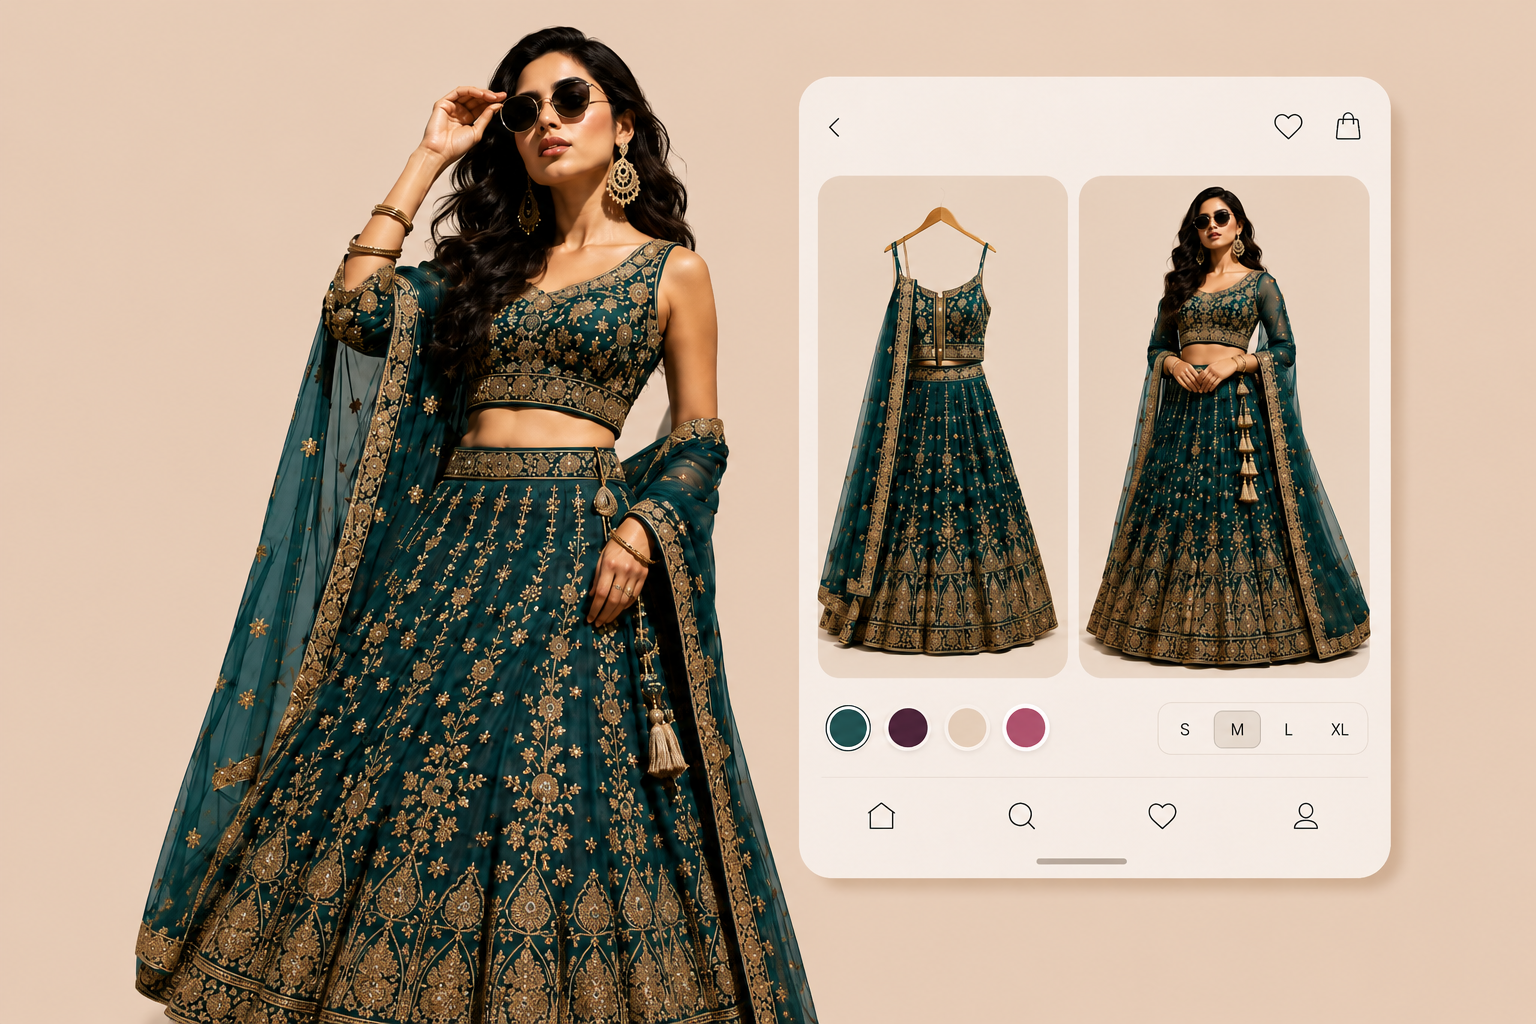
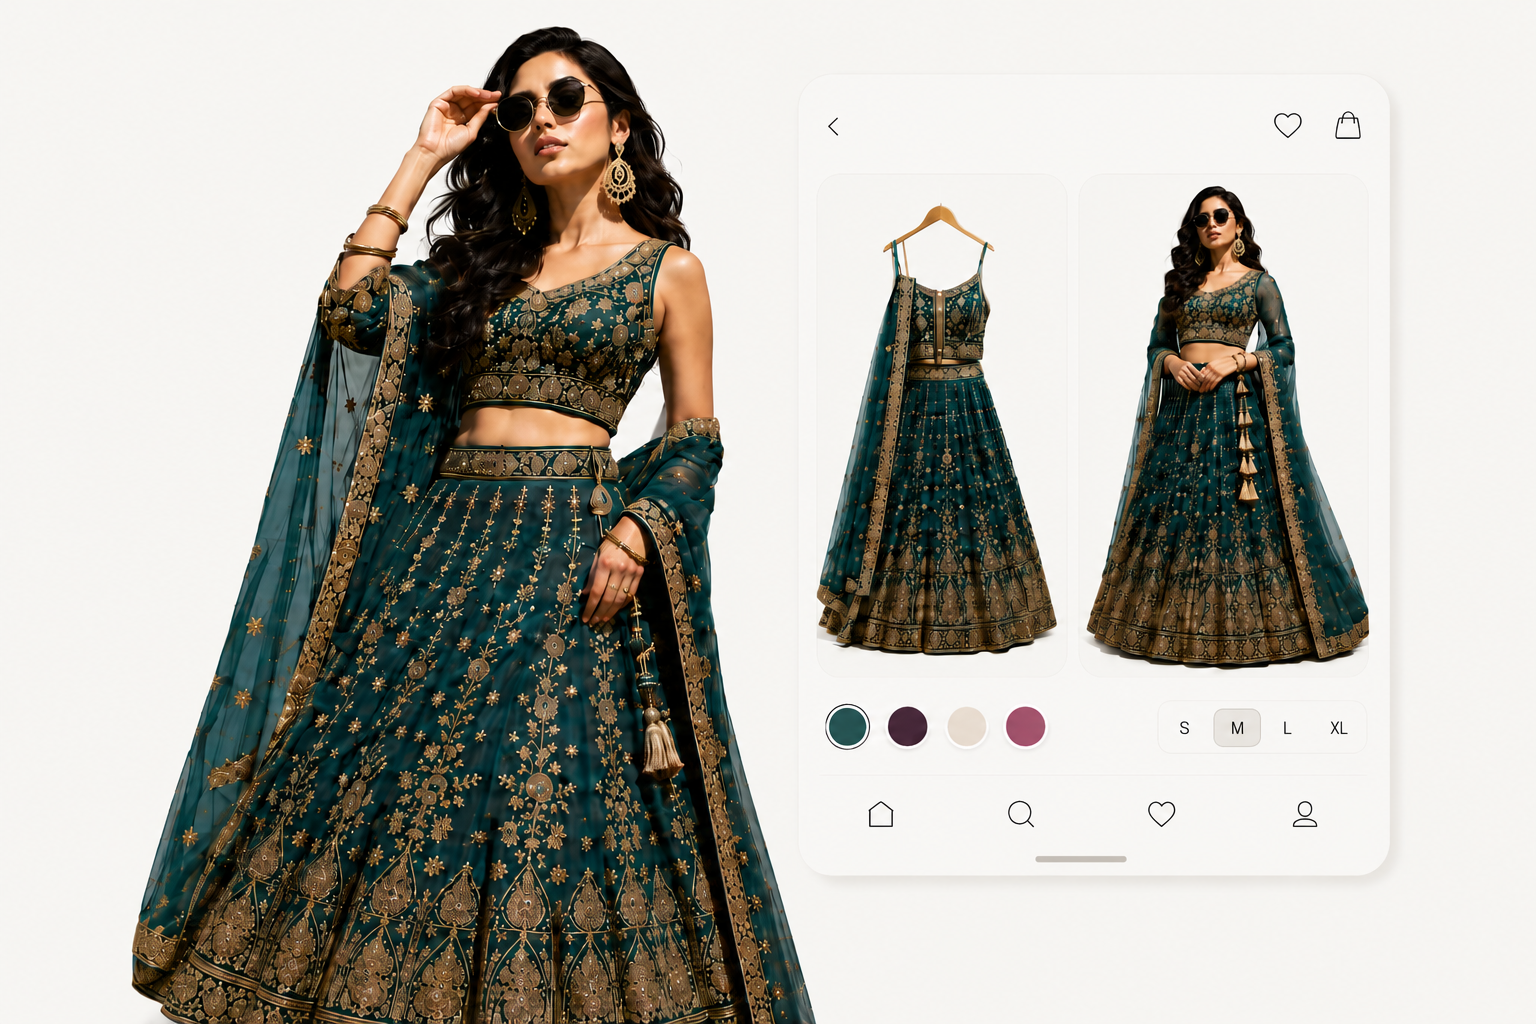
feat: UI updates — login/signup buttons, features1 bg colour, products gender toggle
- Login: replace "Start free trial" text link with full-width Sign up button
- Signup: add "Click here to get free credits" mailto button (hqnudge@gmail.com)
- features1 section background changed to #F6F5F0
- Products catalogue: default to Women, move gender toggle to right side vertical pill

diff --git a/components/products/ProductsPageClient.tsx b/components/products/ProductsPageClient.tsx
@@ -5,8 +5,8 @@ import { motion, AnimatePresence } from 'framer-motion';
 import { GARMENTS, Gender, GarmentId } from '@/lib/garments';
 
 export default function ProductsPageClient() {
-  const [gender, setGender] = useState<Gender>('male');
-  const [selectedId, setSelectedId] = useState<GarmentId>('kurta');
+  const [gender, setGender] = useState<Gender>('female');
+  const [selectedId, setSelectedId] = useState<GarmentId>('casual-dress');
 
   const garments = GARMENTS.filter(g => g.gender === gender);
   const selected = garments.find(g => g.id === selectedId) ?? garments[0];
@@ -91,28 +91,30 @@ export default function ProductsPageClient() {
           </motion.span>
         </AnimatePresence>
 
-        {/* Gender toggle — bottom center */}
+        {/* Gender toggle — right side, vertical */}
         <div style={{
           position: 'absolute',
-          bottom: 28,
-          left: '50%',
-          transform: 'translateX(-50%)',
+          right: 16,
+          top: '50%',
+          transform: 'translateY(-50%)',
           zIndex: 10,
           display: 'flex',
+          flexDirection: 'column',
           background: 'rgba(255,255,255,0.85)',
           backdropFilter: 'blur(20px)',
           borderRadius: 999,
-          padding: '6px 20px',
+          padding: '6px 0',
           border: '1px solid rgba(0,0,0,0.07)',
+          gap: 0,
         }}>
-          {(['male', 'female'] as Gender[]).map((g, i) => (
+          {(['female', 'male'] as Gender[]).map((g, i) => (
             <button
               key={g}
               onClick={() => switchGender(g)}
               style={{
-                padding: '4px 18px',
+                padding: '10px 14px',
                 border: 'none',
-                borderRight: i === 0 ? '1px solid rgba(0,0,0,0.1)' : 'none',
+                borderBottom: i === 0 ? '1px solid rgba(0,0,0,0.1)' : 'none',
                 background: 'transparent',
                 color: gender === g ? '#09090b' : '#a1a1aa',
                 fontSize: 11,
@@ -122,6 +124,9 @@ export default function ProductsPageClient() {
                 letterSpacing: '0.06em',
                 textTransform: 'uppercase',
                 transition: 'color 0.2s',
+                writingMode: 'vertical-rl',
+                textOrientation: 'mixed',
+                transform: 'rotate(180deg)',
               }}
             >
               {g === 'male' ? 'Men' : 'Women'}

diff --git a/components/pricing/PricingPageClient.tsx b/components/pricing/PricingPageClient.tsx
@@ -29,8 +29,8 @@ const PLAN_META = [
     id: 'starter' as const,
     name: 'Starter',
     description: 'For small showrooms getting started with virtual try-on.',
-    credits: '200 credits / month',
-    tryOns: '60–80 try-ons',
+    credits: '100 try-ons / month',
+    tryOns: '',
     popular: false,
     features: [
       '1 branch',
@@ -45,8 +45,8 @@ const PLAN_META = [
     id: 'pro' as const,
     name: 'Pro',
     description: 'For growing showrooms managing multiple branches.',
-    credits: '400 credits / month',
-    tryOns: '120–160 try-ons',
+    credits: '200 try-ons / month',
+    tryOns: '',
     popular: true,
     features: [
       'Up to 3 branches',
@@ -61,8 +61,8 @@ const PLAN_META = [
     id: 'business' as const,
     name: 'Business',
     description: 'For enterprise retailers needing unlimited scale.',
-    credits: '1,000 credits / month',
-    tryOns: '300–400 try-ons',
+    credits: '500 try-ons / month',
+    tryOns: '',
     popular: false,
     features: [
       'Unlimited branches',
@@ -210,7 +210,7 @@ function PlanCard({ plan, yearly, currency, index }: { plan: typeof PLAN_META[0]
         border: `1px solid ${plan.popular ? 'rgba(255,255,255,0.08)' : '#e4e4e7'}`,
       }}>
         <p style={{ fontFamily: 'var(--font-inter)', fontSize: 12, fontWeight: 600, color: plan.popular ? '#e4e4e7' : '#18181b' }}>{plan.credits}</p>
-        <p style={{ fontFamily: 'var(--font-inter)', fontSize: 11, color: plan.popular ? '#71717a' : '#71717a', marginTop: 2 }}>{plan.tryOns} · {rate} / try-on</p>
+        <p style={{ fontFamily: 'var(--font-inter)', fontSize: 11, color: '#71717a', marginTop: 2 }}>{rate} / try-on</p>
       </div>
 
       <div style={{ height: 1, background: plan.popular ? 'rgba(255,255,255,0.07)' : '#f4f4f5', marginBottom: 16 }} />

diff --git a/components/pricing/PlanCards.tsx b/components/pricing/PlanCards.tsx
@@ -54,8 +54,8 @@ const PLANS: Plan[] = [
     annual: 400,
     effectiveMonthly: 34,
     packStartsAt: null,
-    credits: '200 credits / month',
-    tryOns: '60–80 fast try-ons',
+    credits: '',
+    tryOns: '100 try-ons / month',
     rate: 'S$0.40 / try-on',
     features: [
       { label: 'Branches', value: '1' },
@@ -74,8 +74,8 @@ const PLANS: Plan[] = [
     annual: 720,
     effectiveMonthly: 60,
     packStartsAt: null,
-    credits: '400 credits / month',
-    tryOns: '120–160 fast try-ons',
+    credits: '',
+    tryOns: '200 try-ons / month',
     rate: 'S$0.36 / try-on',
     features: [
       { label: 'Branches', value: 'Up to 3' },
@@ -95,8 +95,8 @@ const PLANS: Plan[] = [
     annual: 1600,
     effectiveMonthly: 134,
     packStartsAt: null,
-    credits: '1,000 credits / month',
-    tryOns: '300–400 fast try-ons',
+    credits: '',
+    tryOns: '500 try-ons / month',
     rate: 'S$0.32 / try-on',
     features: [
       { label: 'Branches', value: 'Unlimited' },
@@ -196,16 +196,13 @@ function PlanCard({ plan, billing, index }: CardProps) {
         )}
       </div>
 
-      {/* Credits chip */}
+      {/* Try-ons chip */}
       <div className="rounded-xl bg-amber-50 border border-amber-100 px-3 py-2.5 mb-5">
-        <p
-          className="text-xs font-semibold text-amber-800 leading-snug"
-          style={{ fontFamily: 'var(--font-inter)' }}
-        >
-          {plan.credits}
+        <p className="text-xs font-semibold text-amber-800 leading-snug" style={{ fontFamily: 'var(--font-inter)' }}>
+          {plan.tryOns || 'Pack-based'}
         </p>
         <p className="text-xs text-amber-600/70 mt-0.5" style={{ fontFamily: 'var(--font-inter)' }}>
-          {plan.tryOns} · {plan.rate}
+          {plan.rate}
         </p>
       </div>
 

diff --git a/app/signup/page.tsx b/app/signup/page.tsx
@@ -99,9 +99,15 @@ export default function SignupPage() {
             </button>
           </form>
 
-          <p className="text-center text-xs text-zinc-400 mt-4" style={{ fontFamily: 'var(--font-inter)' }}>
-            40 free credits · no credit card needed
-          </p>
+          <div className="mt-4 pt-4 border-t border-zinc-100">
+            <a
+              href={`mailto:hqnudge@gmail.com?subject=Free%20Credits%20Request%20-%20TrialRoomStudio&body=Hi%20TrialRoomStudio%20Team%2C%0A%0AI%20would%20like%20to%20request%20free%20credits%20for%20my%20account.%20Here%20are%20my%20details%3A%0A%0AName%3A%20%0AEmail%3A%20%0APhone%20Number%3A%20%0ACompany%20Name%3A%20%0A%0AThank%20you!`}
+              className="w-full block text-center bg-zinc-50 border border-zinc-200 text-zinc-700 rounded-xl py-2.5 text-sm font-semibold hover:bg-zinc-100 transition-colors"
+              style={{ fontFamily: 'var(--font-inter)' }}
+            >
+              Click here to get free credits
+            </a>
+          </div>
         </div>
 
         <p className="text-center text-xs text-zinc-400 mt-5" style={{ fontFamily: 'var(--font-inter)' }}>

diff --git a/app/login/page.tsx b/app/login/page.tsx
@@ -155,12 +155,15 @@ export default function LoginPage() {
           )}
         </div>
 
-        <p className="text-center text-xs text-zinc-400 mt-5" style={{ fontFamily: 'var(--font-inter)' }}>
-          Don&apos;t have an account?{' '}
-          <Link href="/signup" className="text-zinc-700 font-medium hover:underline">
-            Start free trial
+        <div className="mt-5 flex justify-center">
+          <Link
+            href="/signup"
+            className="w-full max-w-sm block text-center bg-white border border-zinc-200 text-zinc-800 rounded-xl py-2.5 text-sm font-semibold hover:bg-zinc-50 transition-colors shadow-sm"
+            style={{ fontFamily: 'var(--font-inter)' }}
+          >
+            Sign up
           </Link>
-        </p>
+        </div>
       </div>
     </div>
   );

diff --git a/components/HowItWorksSection.tsx b/components/HowItWorksSection.tsx
@@ -180,7 +180,7 @@ export default function HowItWorksSection() {
     <FlowArt id="features">
 
       {/* Feature 01 — Virtual Try-On for Stores */}
-      <FlowSection aria-label="Feature 1: Virtual Try-On for stores" bg="#E5CBB6" light noGrid>
+      <FlowSection aria-label="Feature 1: Virtual Try-On for stores" bg="#F6F5F0" light noGrid>
         {/* Label + text grouped at top */}
         <div style={{ display: 'flex', flexDirection: 'column', gap: '1.5rem', position: 'relative', zIndex: 2 }}>
         <StepLabel num="01" />

diff --git a/components/features/InStoreSlide.tsx b/components/features/InStoreSlide.tsx
@@ -17,7 +17,7 @@ export default function InStoreSlide() {
   const inView = useInView(ref, { once: false, margin: '-80px' });
 
   return (
-    <FeatureSlide id="in-store" background="#fafafa">
+    <FeatureSlide id="in-store" background="#ABB0AF">
       {/* Ghost number */}
       <div
         className="absolute select-none pointer-events-none"
